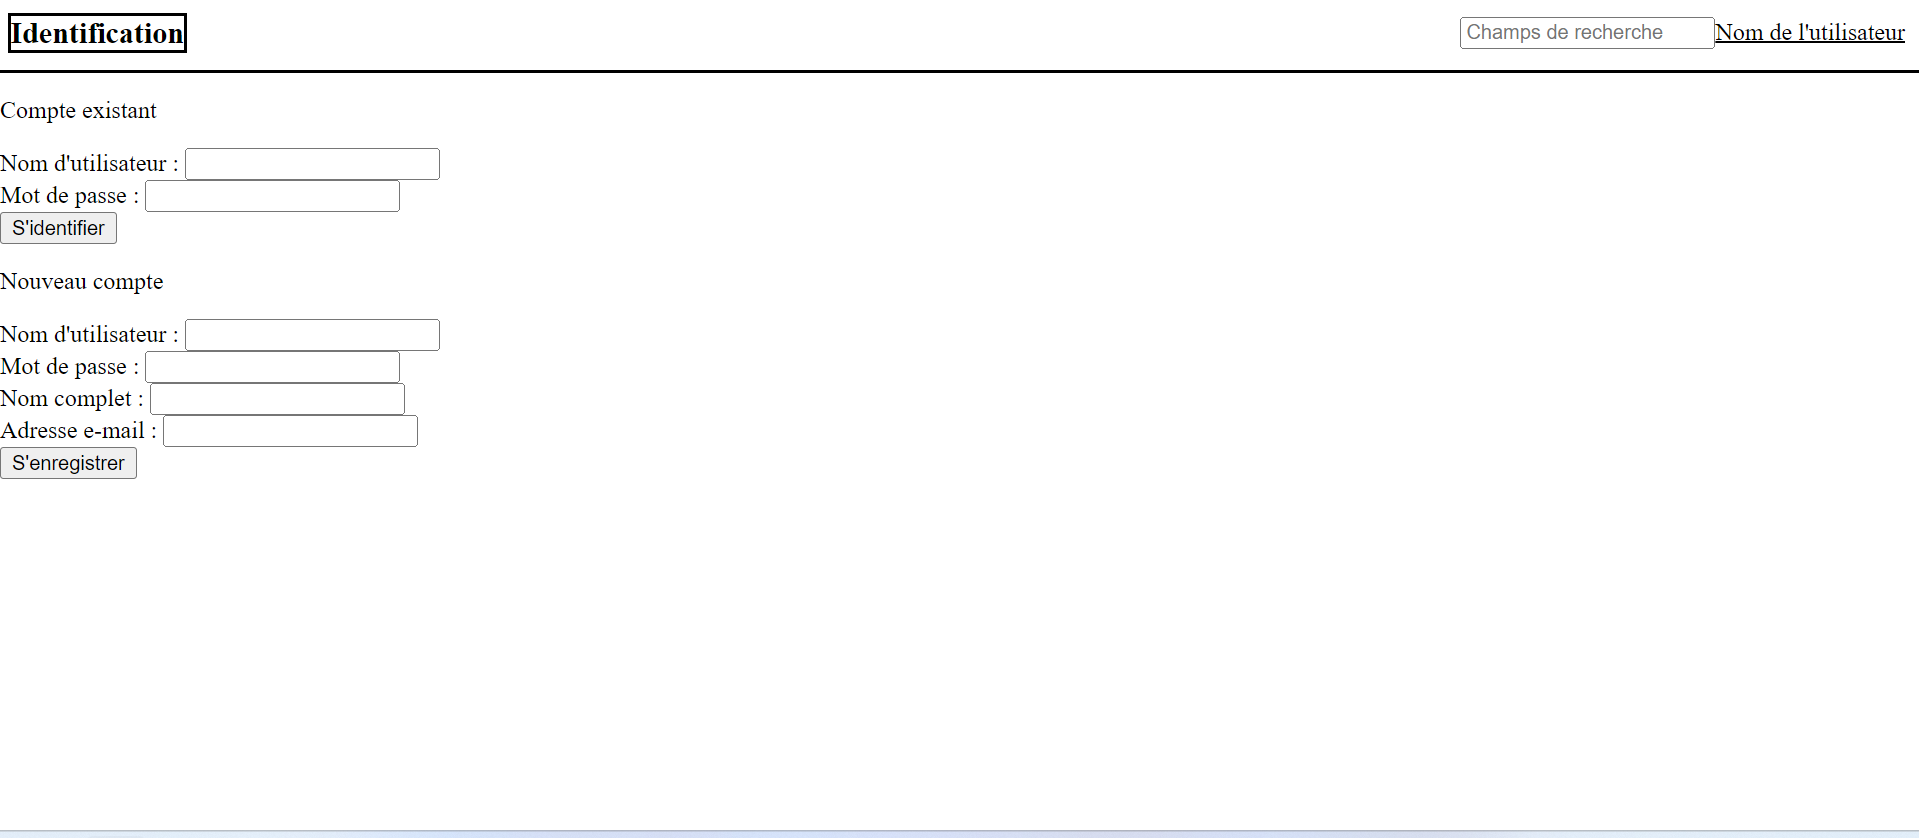
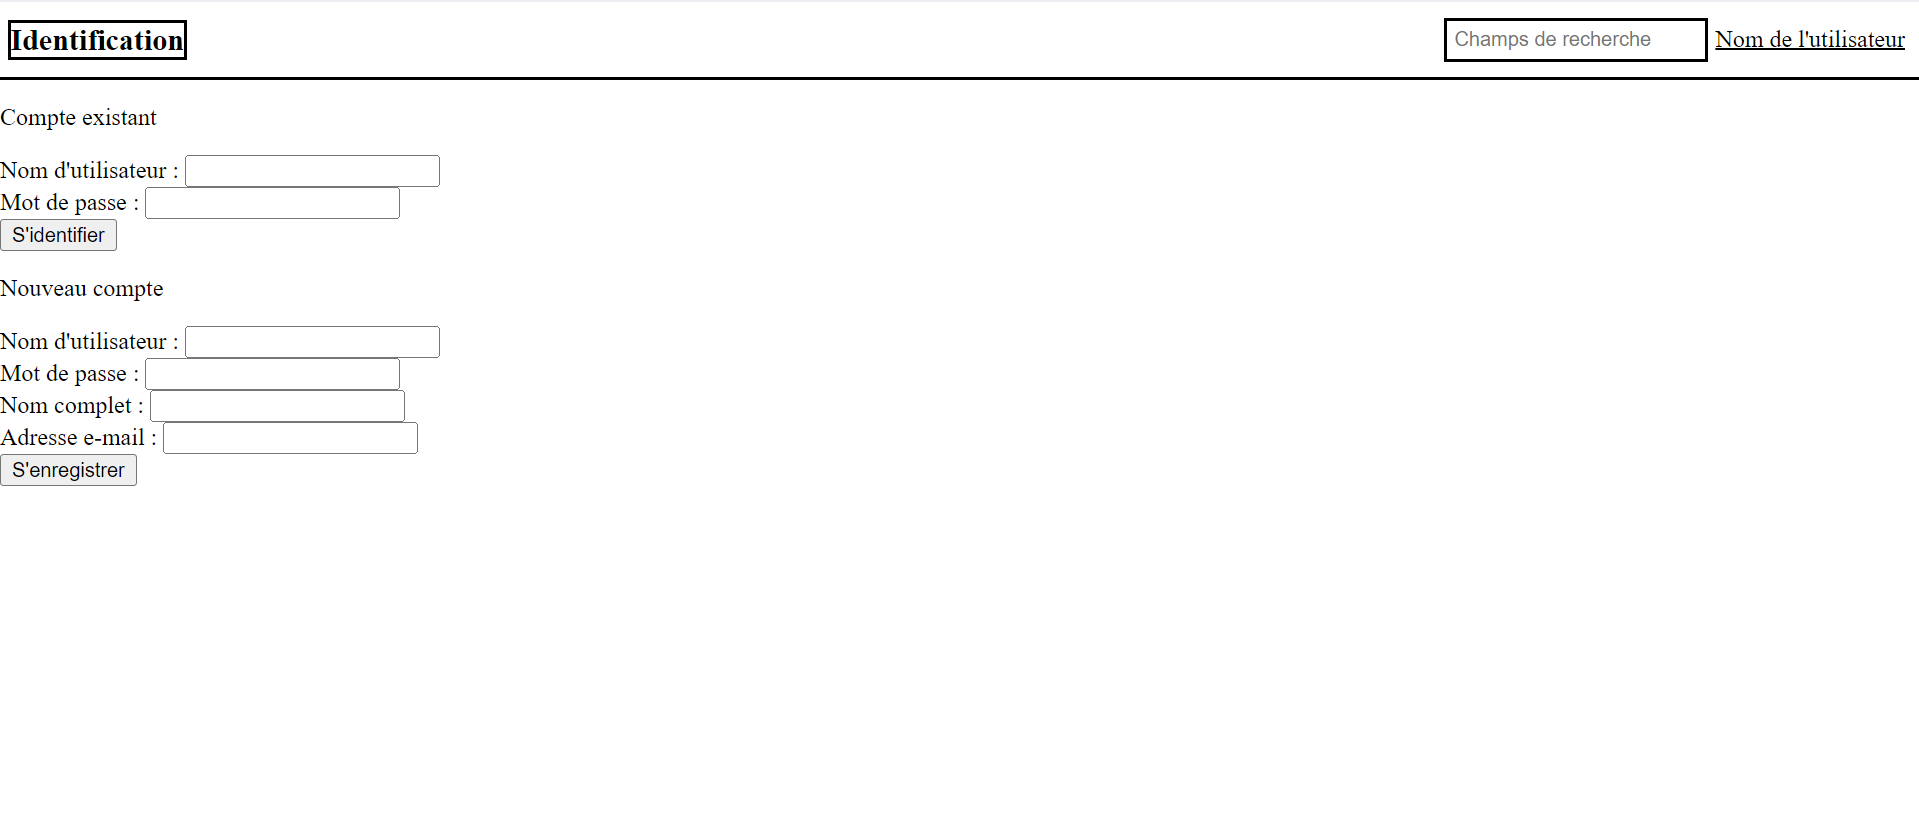
correction type text en type search

diff --git a/html/identification.html b/html/identification.html
@@ -14,7 +14,7 @@
             </div>
             <div id="header_c_toRight">
                 <div id="header_search">
-                    <input type="text" placeholder="Champs de recherche">
+                    <input type="search" placeholder="Champs de recherche">
                 </div>
                 <div id="header_user">Nom de l'utilisateur</div>
             </div>
